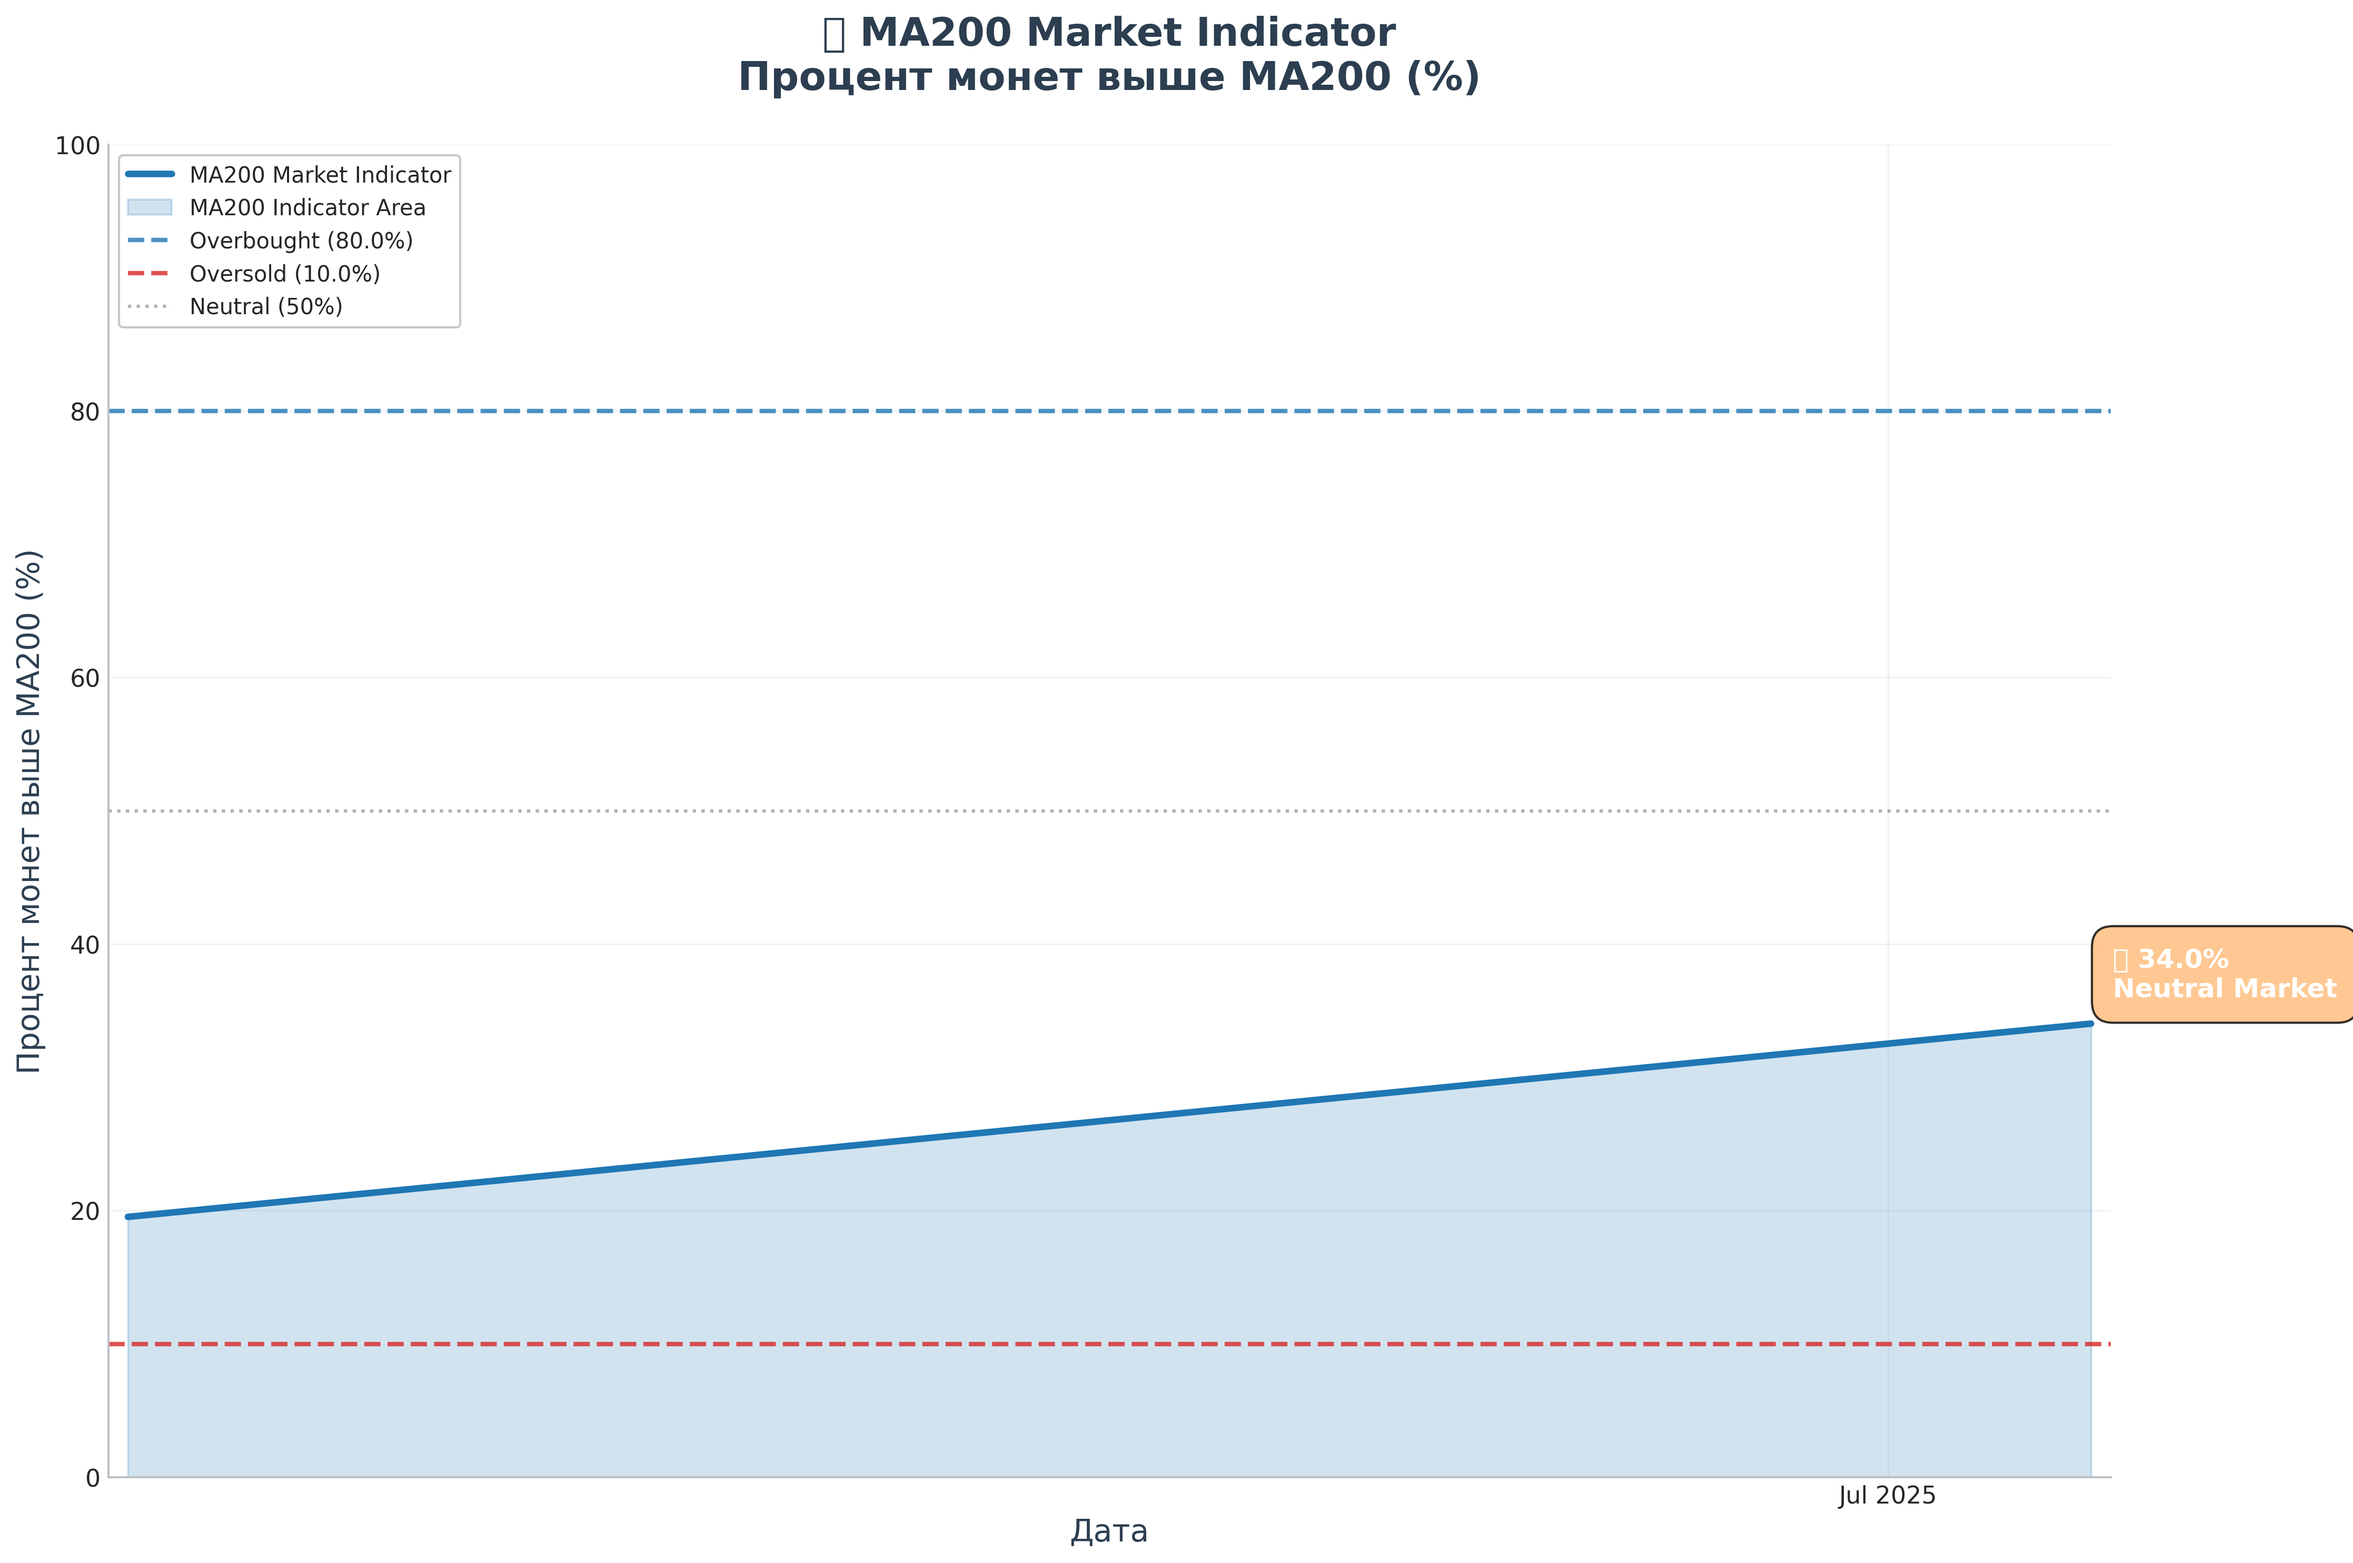
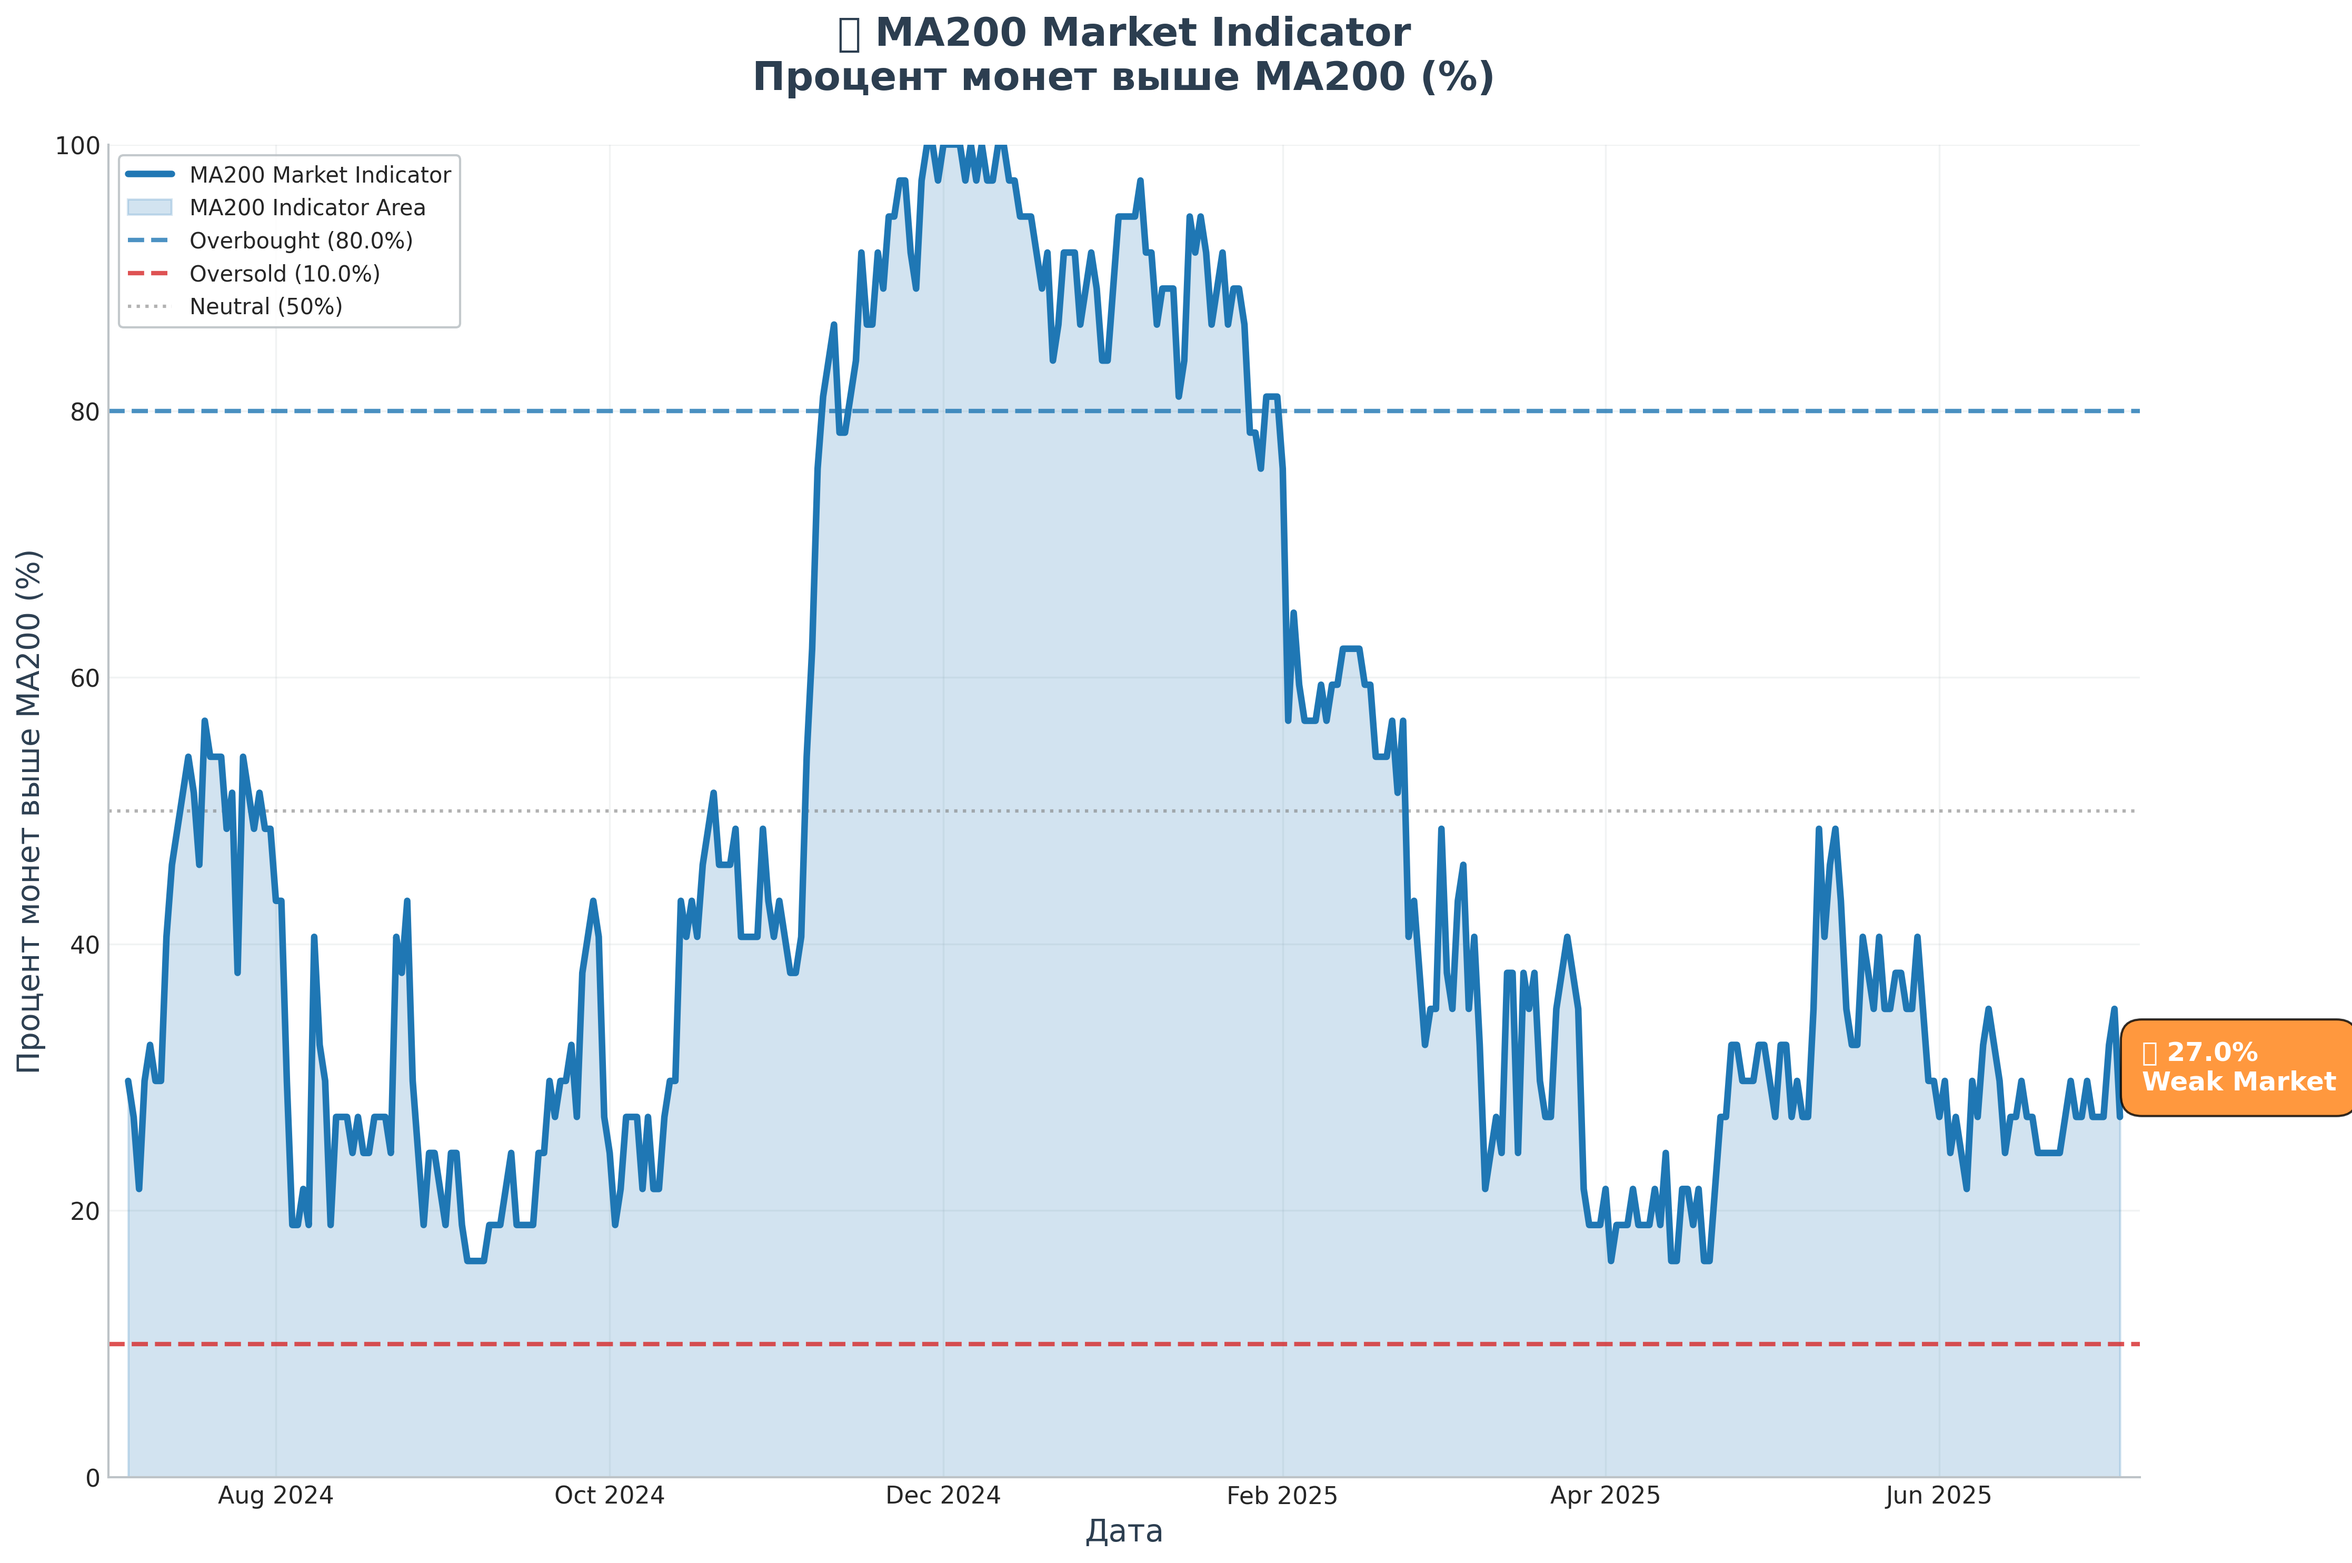
Improve the accuracy of historical data in MA200 calculations
Refactor MA200 indicator to use cached data to calculate historical values with pandas DataFrames.

Replit-Commit-Author: Agent
Replit-Commit-Session-Id: 0aa69d98-cbd8-43ce-9afe-f065c39d23e7
Replit-Commit-Screenshot-Url: https://storage.googleapis.com/screenshot-production-us-central1/89570994-1faf-4430-9046-75d67078f252/2a00a6ac-2f33-4096-a872-95952804e229.jpg

diff --git a/ma200_indicator.py b/ma200_indicator.py
@@ -223,56 +223,85 @@ class MA200Indicator:
 
     def _calculate_from_cache(self, cache):
         """
-        Быстрый расчет на основе кешированных данных
+        Расчет исторических данных MA200 на основе кешированных данных
         
         Args:
             cache (dict): Кешированные данные
             
         Returns:
-            pd.DataFrame: Результаты расчетов
+            pd.DataFrame: Результаты расчетов с реальными историческими данными
         """
         try:
             results = []
             end_date = datetime.now().date()
             
-            # Рассчитываем для последнего дня на основе кеша
-            coins_above_ma200 = 0
-            total_coins = 0
+            # Преобразуем кешированные данные в pandas DataFrames
+            coin_data = {}
+            valid_coins = []
             
-            for symbol, coin_data in cache.items():
-                if 'data' in coin_data and len(coin_data['data']) >= 200:
-                    total_coins += 1
-                    # Получаем последние данные (правильный формат: price, не close)
-                    prices = [day['price'] for day in coin_data['data']]
-                    if len(prices) >= 200:
-                        recent_price = prices[-1]  # Последняя цена
-                        ma200 = sum(prices[-200:]) / 200  # MA200
-                        if recent_price > ma200:
-                            coins_above_ma200 += 1
+            for symbol, data in cache.items():
+                if 'data' in data and len(data['data']) >= (self.ma_period + self.history_days):
+                    try:
+                        df = pd.DataFrame(data['data'])
+                        df['date'] = pd.to_datetime(df['date'])
+                        df.set_index('date', inplace=True)
+                        df.sort_index(inplace=True)
+                        coin_data[symbol] = df
+                        valid_coins.append(symbol)
+                    except Exception as e:
+                        self.logger.warning(f"Ошибка обработки кеша для {symbol}: {str(e)}")
+                        continue
             
-            if total_coins > 0:
-                percentage = (coins_above_ma200 / total_coins) * 100
+            if not valid_coins:
+                self.logger.warning("Нет валидных данных в кеше для исторического анализа")
+                return None
+            
+            # Рассчитываем процент монет выше MA200 для каждого дня
+            for i in range(self.history_days):
+                current_date = end_date - timedelta(days=self.history_days - 1 - i)
+                coins_above_ma200 = 0
+                total_coins_checked = 0
                 
-                # Создаем исторические данные для полного периода
-                for i in range(self.history_days):
-                    current_date = end_date - timedelta(days=self.history_days - 1 - i)
-                    # Симулируем небольшие вариации для реалистичности
-                    variation = ((i % 10) - 5) * 0.5  # Колебания ±2.5%
+                for coin_id in valid_coins:
+                    df = coin_data[coin_id]
+                    
+                    try:
+                        # Находим данные на текущую дату
+                        current_price_data = df[df.index.date <= current_date]
+                        if current_price_data.empty:
+                            continue
+                        
+                        current_price = current_price_data.iloc[-1]['price']
+                        
+                        # Рассчитываем MA200 на основе предыдущих 200 дней
+                        ma_data = current_price_data.iloc[-(self.ma_period+1):-1]
+                        if len(ma_data) >= self.ma_period:
+                            ma200 = ma_data['price'].mean()
+                            
+                            if current_price > ma200:
+                                coins_above_ma200 += 1
+                            total_coins_checked += 1
+                    except Exception as e:
+                        continue
+                
+                if total_coins_checked > 0:
+                    percentage = (coins_above_ma200 / total_coins_checked) * 100
                     results.append({
                         'date': current_date,
-                        'percentage': max(0, min(100, percentage + variation)),
+                        'percentage': percentage,
                         'coins_above_ma200': coins_above_ma200,
-                        'total_coins': total_coins
+                        'total_coins': total_coins_checked
                     })
-                
-                self.logger.info(f"Быстрый расчет выполнен: {percentage:.1f}% для {total_coins} монет")
+            
+            if results:
+                self.logger.info(f"Исторический расчет выполнен для {len(results)} дней с {len(valid_coins)} монетами")
                 return pd.DataFrame(results)
             else:
-                self.logger.warning("Нет данных для быстрого расчета")
+                self.logger.warning("Не удалось рассчитать исторические данные")
                 return None
                 
         except Exception as e:
-            self.logger.error(f"Ошибка быстрого расчета: {str(e)}")
+            self.logger.error(f"Ошибка исторического расчета: {str(e)}")
             return None
 
     def calculate_ma200_percentage(self, force_refresh=False):
